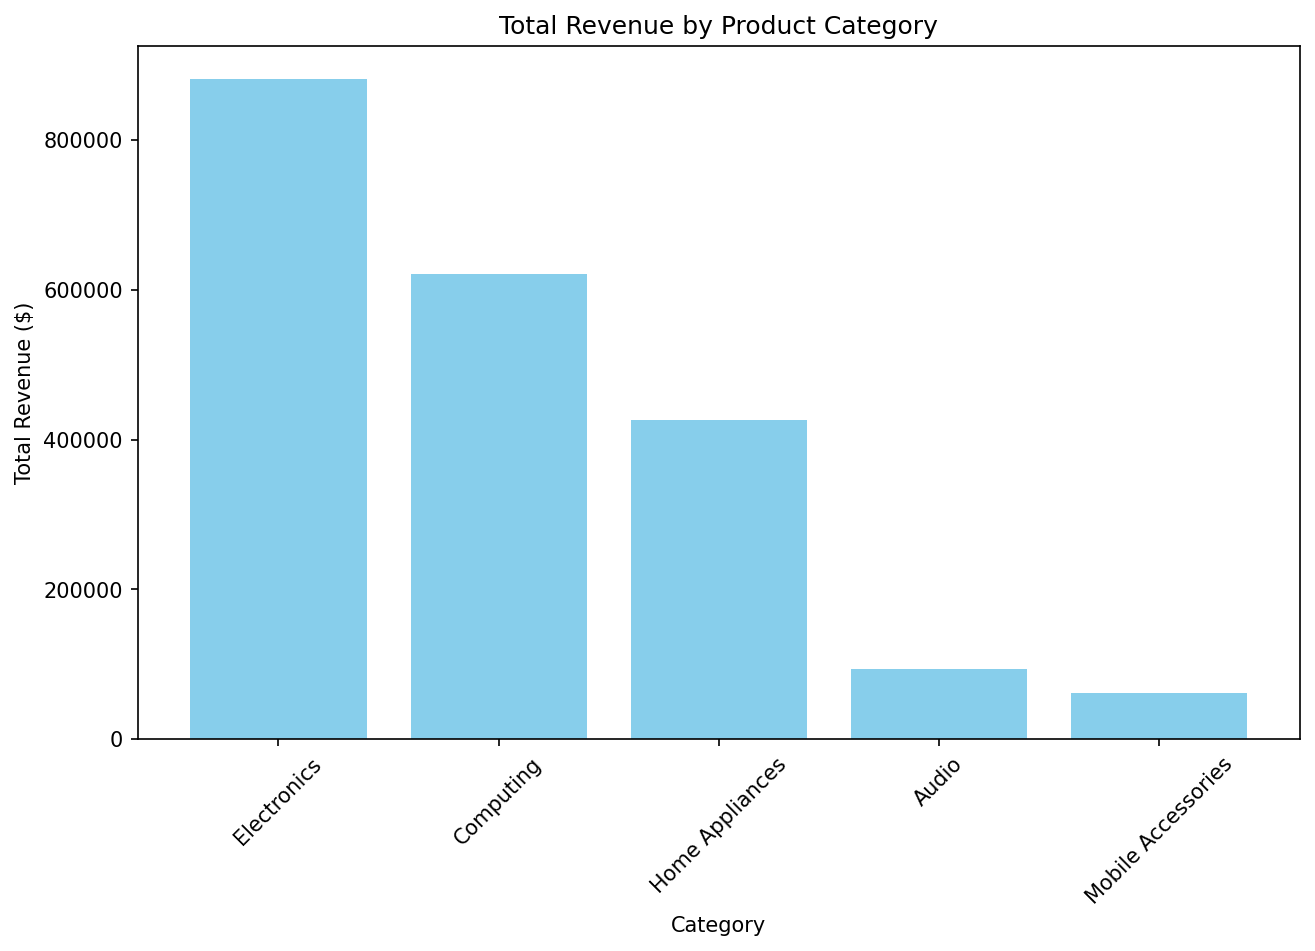
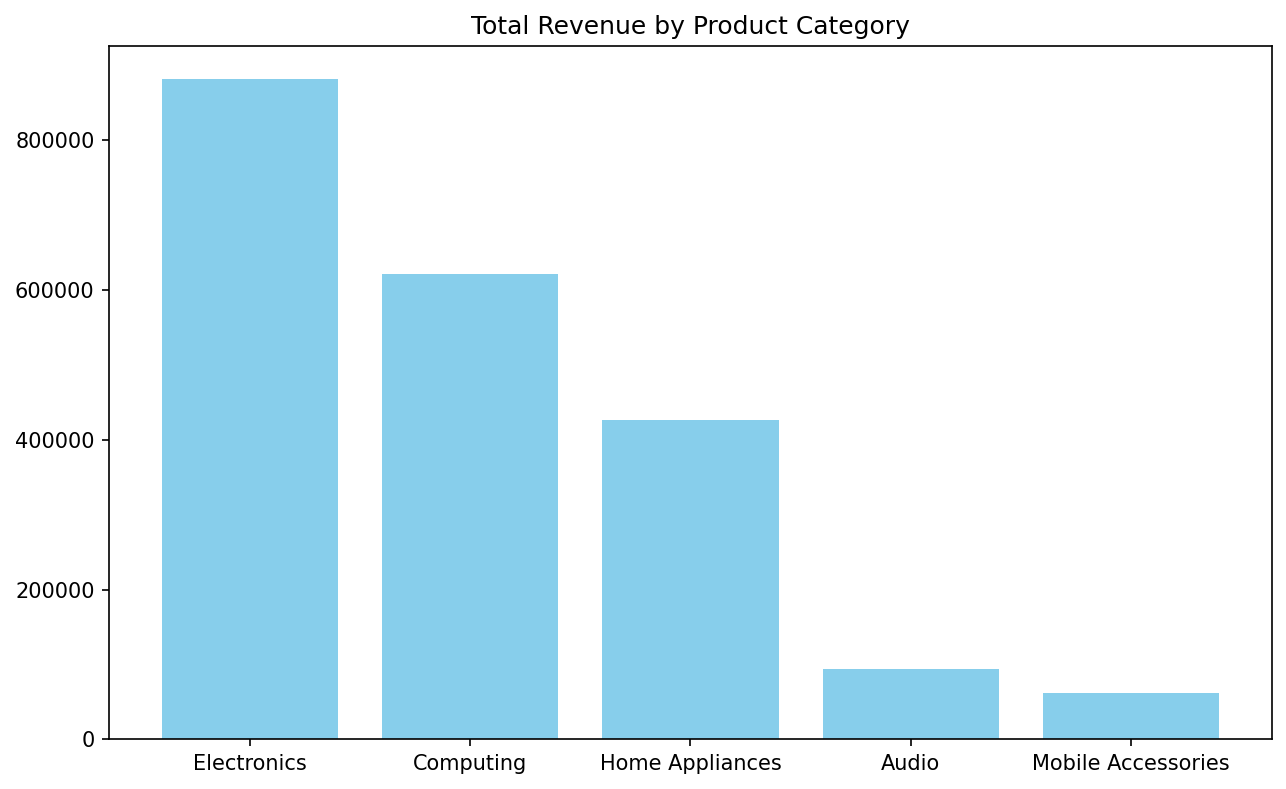
feat: complete challenge 1

diff --git a/pipeline.py b/pipeline.py
@@ -10,200 +10,108 @@ import os
 import pandas as pd
 import numpy as np
 import matplotlib.pyplot as plt
-
-
-# ─── Configuration ────────────────────────────────────────────────────────────
-
-DATA_PATH = 'data/sales_records.csv'
-OUTPUT_DIR = 'output'
+import json
+import sys
 
 
 # ─── Pipeline Functions ───────────────────────────────────────────────────────
 
 def load_data(filepath):
-    """Load sales records from a CSV file.
-
-    Args:
-        filepath (str): Path to the CSV file.
-
-    Returns:
-        pd.DataFrame: Raw sales records DataFrame.
-    """
+   
     
     df = pd.read_csv(filepath) 
     print(f"Loaded {len(df)} records from {filepath}")
     return df
 
-
-def clean_data(df):
-    """Handle missing values and fix data types.
-
-    - Fill missing 'quantity' values with the column median.
-    - Fill missing 'unit_price' values with the column median.
-    - Parse the 'date' column to datetime (use errors='coerce' to handle malformatted dates).
-    - Print a progress message showing the record count after cleaning.
-
-    Args:
-        df (pd.DataFrame): Raw DataFrame from load_data().
-
-    Returns:
-        pd.DataFrame: Cleaned DataFrame (do not modify the input in place).
-    """
+def clean_data(df, cleaning_config):
+   
     if df.empty:
         print("Warning: DataFrame is empty")
         return df
     df_clean = df.copy()
-    for col in ['quantity', 'unit_price']:
-        if df_clean[col].isnull().all():
-            df_clean[col] = 0
-        else:
-            df_clean[col] = df_clean[col].fillna(df_clean[col].median())
-    df_clean['date'] = pd.to_datetime(df_clean['date'], errors='coerce')
-    df_clean = df_clean.dropna(subset=['quantity', 'unit_price'], how='all')
-    print(f"Cleaned data: {len(df_clean)} records")
+    cols_to_fill = cleaning_config.get('fill_columns', [])
+    strategy = cleaning_config.get('strategy', 'median')
+    for col in cols_to_fill:
+        if col in df_clean.columns:
+            if df_clean[col].isnull().all():
+                fill_val = 0
+            elif strategy == 'mean':
+                fill_val = df_clean[col].mean()
+            else:
+                fill_val = df_clean[col].median()
+                
+            df_clean[col] = df_clean[col].fillna(fill_val)
 
+    df_clean['date'] = pd.to_datetime(df_clean['date'], errors='coerce')
+    print(f"Cleaned data: {len(df_clean)} records")
     return df_clean
 
 
 def add_features(df):
-    """Compute derived columns.
-
-    - Add 'revenue' column: quantity * unit_price.
-    - Add 'day_of_week' column: day name from the date column.
-
-    Args:
-        df (pd.DataFrame): Cleaned DataFrame from clean_data().
-
-    Returns:
-        pd.DataFrame: DataFrame with new columns added.
-    """
-    
+   
     df_enriched = df.copy()
-    df_enriched['revenue'] = df_enriched['quantity'] * df_enriched['unit_price']
-    df_enriched['day_of_week']= df_enriched['date'].dt.day_name()
+    if 'quantity' in df_enriched.columns and 'unit_price' in df_enriched.columns:
+        df_enriched['revenue'] = df_enriched['quantity'] * df_enriched['unit_price']
+    
+    if 'date' in df_enriched.columns:
+        df_enriched['day_of_week'] = df_enriched['date'].dt.day_name()
     return df_enriched
 
 
-def generate_summary(df):
-    """Compute summary statistics.
-
-    Args:
-        df (pd.DataFrame): Enriched DataFrame from add_features().
-
-    Returns:
-        dict: Summary with keys:
-            - 'total_revenue': total revenue (sum)
-            - 'avg_order_value': average order value (mean)
-            - 'top_category': product category with highest total revenue
-            - 'record_count': number of records in df
-    """
+def generate_summary(df, group_by_col):
+   
     if df.empty:
-        return {
-            'total_revenue': 0,
-            'avg_order_value': 0,
-            'top_category': "N/A",
-            'record_count': 0
-        }
+       return {'total_revenue': 0, 'avg_order_value': 0, 'top_category': "N/A", 'record_count': 0}
     
-    total_rev = df['revenue'].sum()
-    avg_order = df['revenue'].mean()
+    total_rev = df['revenue'].sum() if 'revenue' in df.columns else 0
+    avg_order = df['revenue'].mean() if 'revenue' in df.columns else 0
     count = len(df)
-    if total_rev > 0:
-        top_cat = df.groupby('product_category')['revenue'].sum().idxmax()
+    if total_rev > 0 and group_by_col in df.columns:
+        top_val = df.groupby(group_by_col)['revenue'].sum().idxmax()
     else:
-        top_cat = "N/A"
+        top_val = "N/A"
     summary_dict = {
         'total_revenue': total_rev,
         'avg_order_value': avg_order,
-        'top_category': top_cat,
+        'top_category': top_val,
         'record_count': count
     }
     return summary_dict
 
 
-def create_visualizations(df, output_dir=OUTPUT_DIR):
-    """Create and save 3 charts as PNG files.
-
-    Charts to create:
-    1. Bar chart: total revenue by product category
-    2. Line chart: daily revenue trend (aggregate revenue by date)
-    3. Horizontal bar chart: average order value by payment method
-
-    Save each chart as a PNG using fig.savefig().
-    Do NOT use plt.show() — it blocks execution in pipeline scripts.
-    Close each figure with plt.close(fig) after saving.
-
-    Args:
-        df (pd.DataFrame): Enriched DataFrame from add_features().
-        output_dir (str): Directory to save PNG files (create if needed).
-    """
-    # TODO: Create the output directory: os.makedirs(output_dir, exist_ok=True)
-
-    # TODO: Chart 1 — Bar chart: total revenue by product category
-    #   - Group by 'product_category', sum 'revenue'
-    #   - fig, ax = plt.subplots(figsize=(10, 6))
-    #   - ax.bar(categories, values) or use ax.barh() for horizontal
-    #   - Set title, labels
-    #   - fig.savefig(f'{output_dir}/revenue_by_category.png', dpi=150, bbox_inches='tight')
-    #   - plt.close(fig)
-
-    # TODO: Chart 2 — Line chart: daily revenue trend
-    #   - Group by 'date', sum 'revenue' — sort by date
-    #   - ax.plot(dates, revenues)
-    #   - fig.savefig(f'{output_dir}/daily_revenue_trend.png', ...)
-    #   - plt.close(fig)
-
-    # TODO: Chart 3 — Horizontal bar chart: avg order value by payment method
-    #   - Group by 'payment_method', mean 'revenue'
-    #   - ax.barh(methods, avg_values)
-    #   - fig.savefig(f'{output_dir}/avg_order_by_payment.png', ...)
-    #   - plt.close(fig)
-
+def create_visualizations(df, output_dir, charts_to_make):
+    
     os.makedirs(output_dir, exist_ok=True)
-    # --- Chart 1: Bar chart — total revenue by product category ---
-    cat_data = df.groupby('product_category')['revenue'].sum().sort_values(ascending=False)
-    fig, ax = plt.subplots(figsize=(10, 6))
-    ax.bar(cat_data.index, cat_data.values, color='skyblue')
-    ax.set_title('Total Revenue by Product Category')
-    ax.set_xlabel('Category')
-    ax.set_ylabel('Total Revenue ($)')
-    plt.xticks(rotation=45)
-    fig.savefig(f'{output_dir}/revenue_by_category.png', dpi=150, bbox_inches='tight')
-    plt.close(fig)
-    # --- Chart 2: Line chart — daily revenue trend ---
-    daily_data = df.groupby('date')['revenue'].sum().sort_index()
-    fig, ax = plt.subplots(figsize=(12, 6))
-    ax.plot(daily_data.index, daily_data.values, marker='o', linestyle='-', color='green')
-    ax.set_title('Daily Revenue Trend')
-    ax.set_xlabel('Date')
-    ax.set_ylabel('Daily Revenue ($)')
-    fig.savefig(f'{output_dir}/daily_revenue_trend.png', dpi=150, bbox_inches='tight')
-    plt.close(fig)
-    # --- Chart 3: Horizontal bar chart — average order value by payment method ---
-    pay_data = df.groupby('payment_method')['revenue'].mean().sort_values()
-    fig, ax = plt.subplots(figsize=(10, 6))
-    ax.barh(pay_data.index, pay_data.values, color='salmon')
-    ax.set_title('Average Order Value by Payment Method')
-    ax.set_xlabel('Average Revenue ($)')
-    ax.set_ylabel('Payment Method')
-    fig.savefig(f'{output_dir}/avg_order_by_payment.png', dpi=150, bbox_inches='tight')
-    plt.close(fig)
-    print(f" completed ")
+    if "revenue_by_category" in charts_to_make and 'product_category' in df.columns:
+        cat_data = df.groupby('product_category')['revenue'].sum().sort_values(ascending=False)
+        fig, ax = plt.subplots(figsize=(10, 6))
+        ax.bar(cat_data.index, cat_data.values, color='skyblue')
+        ax.set_title('Total Revenue by Product Category')
+        fig.savefig(f'{output_dir}/revenue_by_category.png', dpi=150, bbox_inches='tight')
+        plt.close(fig)
+
+    print(f"Visualizations completed in {output_dir}")
+  
 
 
-def main():
-    """Run the full data pipeline end-to-end."""
-    df = load_data(DATA_PATH)
-    df = clean_data(df)
-    df = add_features(df)
-    summary = generate_summary(df)
-    print("\n--- Summary ---")
-    print(f"Total Revenue: ${summary['total_revenue']:,.2f}")
-    print(f"Top Category: {summary['top_category']}")
+def main(config_path="config_sales.json"):
+   if not os.path.exists(config_path):
+        print(f"Error: Config file '{config_path}' not found.")
+        return
+   with open(config_path, 'r') as f:
+        config = json.load(f)
+   df = load_data(config['input_path'])
+   df = clean_data(df, config['cleaning'])
+   df = add_features(df)
+   summary = generate_summary(df, config['group_by_col'])
+   print(f"Summary for {config['input_path']}:", summary)
+   create_visualizations(df, config['output_dir'], config.get('charts', []))
+   if not os.path.exists(config['output_dir']):
+        os.makedirs(config['output_dir'])
 
-    create_visualizations(df, output_dir=OUTPUT_DIR)
-    print("Pipeline complete.  All steps executed successfully.")
+    
 
 
 if __name__ == "__main__":
-     main()
+     path = sys.argv[1] if len(sys.argv) > 1 else "config_sales.json"
+     main(path)
